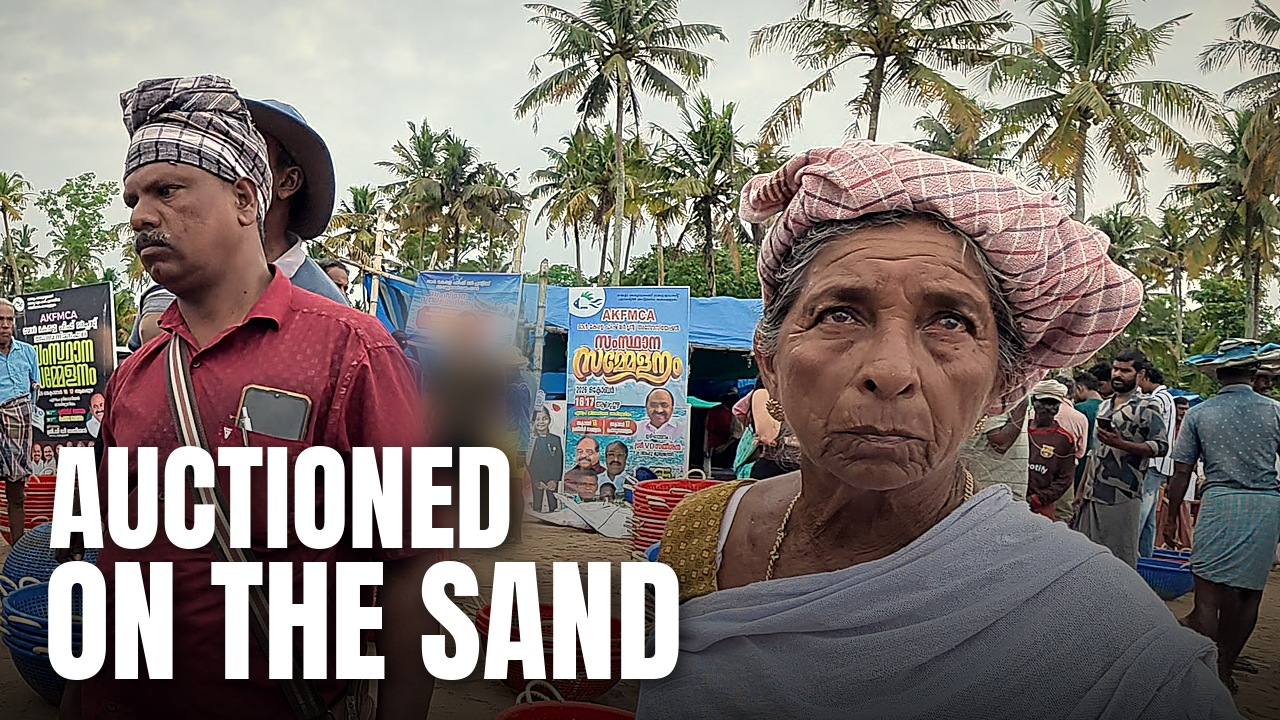
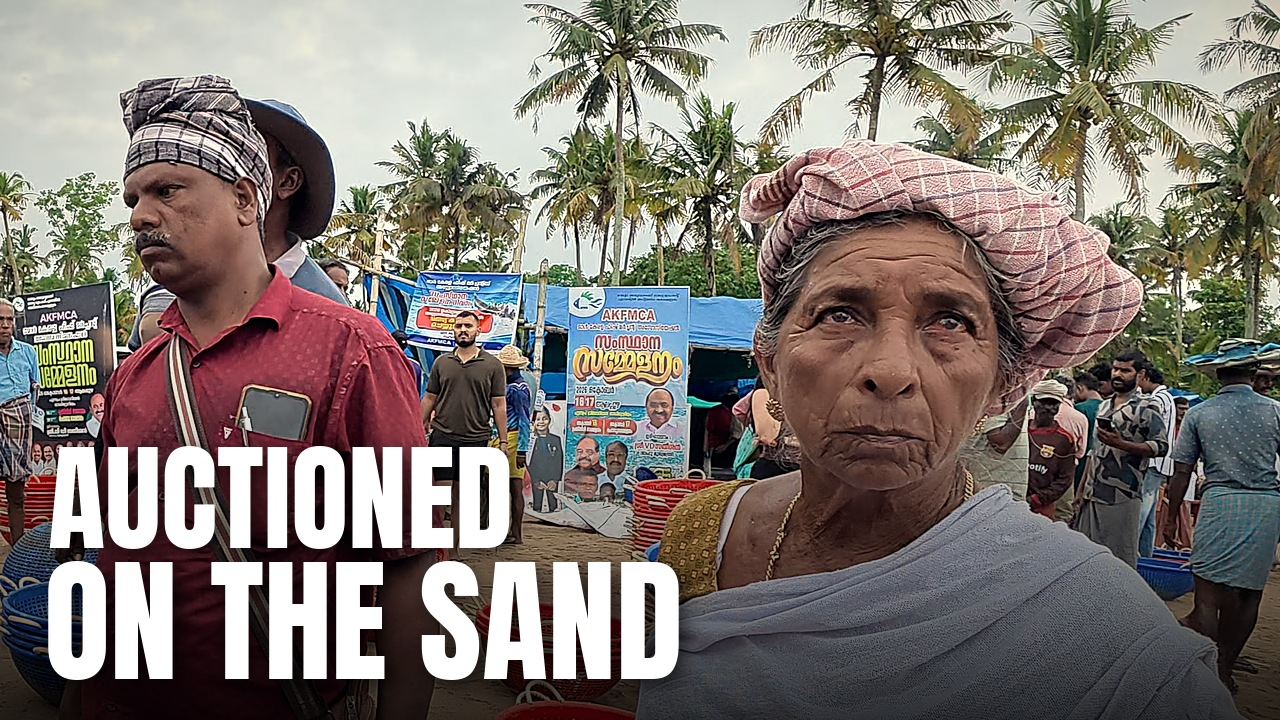
Copy: mercato M1 senza sfocatura (Manuel 9/11)
Claude-Session: https://claude.ai/code/session_01Htfbh1pdXfsApjZ5UHH6NS

Changed region(s): [[0.2812, 0.3667, 0.4375, 0.7639]]

diff --git a/copioni/miniature_v3/mercato_v3.py b/copioni/miniature_v3/mercato_v3.py
@@ -5,7 +5,7 @@ import sys; sys.path.insert(0, 'copioni/miniature_v3')
 from miniature_v3 import make
 R = 'work/mercato/raw/'
 J = {
- 'M1_signora': dict(src=R + 'DJI_0118.MP4', t=20.0, cx=.72, cy=.4, zoom=1.7, layout='basso', small_size=118, blur=(400, 285, 535, 565),
+ 'M1_signora': dict(src=R + 'DJI_0118.MP4', t=20.0, cx=.72, cy=.4, zoom=1.7, layout='basso', small_size=118,
      it=("ALL'ASTA", 'SULLA SABBIA'), en=('AUCTIONED', 'ON THE SAND')),
  'M2_mattina': dict(src=R + 'DJI_0120.MP4', t=3.0, cx=.8, cy=.42, zoom=1.6, layout='basso', red=True,
      it=('OGNI MATTINA', 'ALLE 8'), en=('EVERY MORNING', 'AT 8 A.M.')),

diff --git a/copioni/mercato_pacchetto.md b/copioni/mercato_pacchetto.md
@@ -84,5 +84,5 @@ Titolo EN: A 50-KILO FISH IN INDIA 🇮🇳 the fish market on the beach
 Perché: l'intro del lungo apre proprio su "Quello enorme pesava 50-55 chili... come una persona" (0:05); 50 chili è il fatto
 dello Short migliore (60,8%); "mercato del pesce" sono le parole del pubblico che ci trova (video di mercati in Sri Lanka).
 Miniature (Test e confronto, Drive montati/mercato/miniatura/, le vecchie in vecchie/; generatore copioni/miniature_v3/mercato_v3.py):
-1_M1_signora (principale, scelta di Manuel; 9/11 con Insights: "ALL'ASTA" grande come "SULLA SABBIA", sfocata la persona in maglietta verde sullo sfondo) "ALL'ASTA / SULLA SABBIA" | "AUCTIONED / ON THE SAND";
+1_M1_signora (principale, scelta di Manuel; 9/11 con Insights: "ALL'ASTA" grande come "SULLA SABBIA"; niente sfocature, Manuel) "ALL'ASTA / SULLA SABBIA" | "AUCTIONED / ON THE SAND";
 2_M2_mattina "OGNI MATTINA / ALLE 8" | "EVERY MORNING / AT 8 A.M."; 3_M3_asta "NIENTE TETTO, / NIENTE BANCHI" | "NO ROOF, / NO STALLS".
